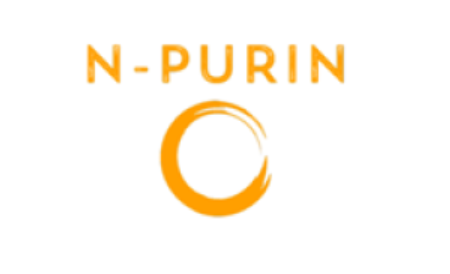
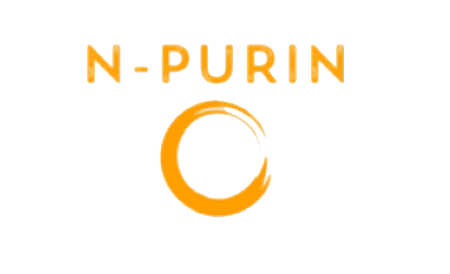
acts

diff --git a/src/Screens/Auth/Login.tsx b/src/Screens/Auth/Login.tsx
@@ -162,8 +162,8 @@ const styles = StyleSheet.create({
     height: hp(40),
   },
   logo: {
-    width: wp(60),
-    height: hp(24),
+    width: wp(85),
+    height: hp(25),
     marginBottom: hp(2),
     resizeMode: "contain",
   },
